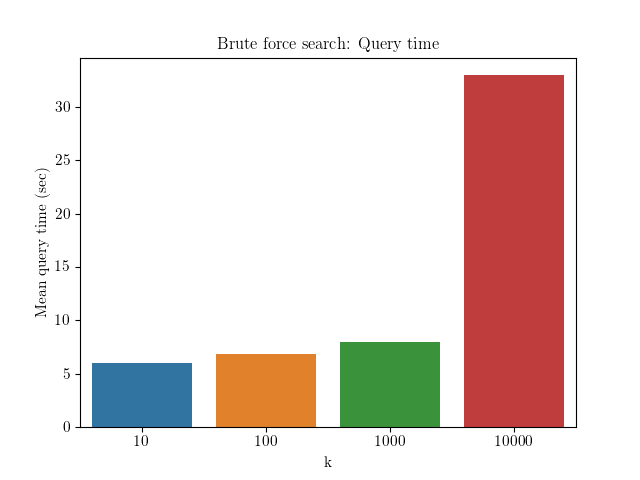
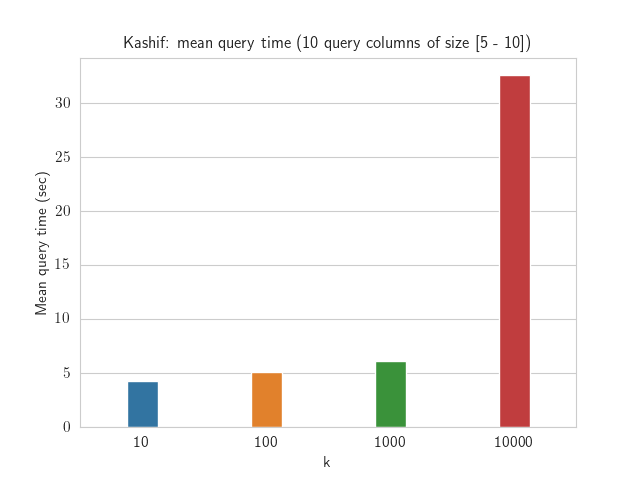
adjust bar plot width and add grid to plot

diff --git a/code/performance/query-time/querytime.py b/code/performance/query-time/querytime.py
@@ -6,7 +6,7 @@ import re
 import matplotlib.pyplot as plt
 import pandas
 import seaborn as sns
-
+import numpy as np
 
 def make_file(_output_file):
     _header = ['algorithm', 'total-files', 'data-gb-size', 'k','num-top', 'TQ:Q','querytime', 'ndistcalc', 'dataaccess']
@@ -27,11 +27,13 @@ def append_evaluation(_algo, _total_files, _dlsize, _k, _x, _tqq, _querytime, _n
 def summarize_results_to_csv(_nqueries, _source_dir, _output_file, _num_top=10):
     make_file(_output_file)
     _k = 0
+    _k_count = 0
     for _subdir, _dirs, _files in os.walk(_source_dir):
         
         if re.search(f'nn', os.path.basename(_subdir)):
             _k = int(re.findall(r"(\d+)nn", _subdir)[0])
             print(f"Current k = {_k}")
+            _k_count += 1
         if re.search(f'_{_nqueries}q_min', os.path.basename(_subdir)):
             print(f"\nCurrent Directory: {_subdir}")
             _currentdir = os.path.basename(_subdir)
@@ -55,9 +57,9 @@ def summarize_results_to_csv(_nqueries, _source_dir, _output_file, _num_top=10):
                    
                     # save evaluation to csv file
                     append_evaluation(_algo, _l, _dlsize, _k, _num_top, _tqq, _querytime, _ndistcalc, _dataaccess, _output_file)
+    return _k_count
 
-
-def plot_results(_csv_file, _output_dir):
+def plot_results(_csv_file, _output_dir, _k_count):
     # set text font
     plt.rc('text', usetex=True)
     plt.rc('font', family='serif')
@@ -66,29 +68,50 @@ def plot_results(_csv_file, _output_dir):
     _df = _df.drop(['TQ:Q'], axis = 1)
     _df = _df.drop(['num-top'], axis = 1)
 
-    _df_lineplot = _df.groupby(
+    _df_new = _df.groupby(
         ['algorithm', 'total-files', 'data-gb-size', 'k']
     ).agg(
         querytime = ('querytime','mean'),
     ).reset_index()
 
-    # LINE PLOT
-    sns.barplot(data=_df_lineplot, x="k", y="querytime")
-    # print(_df_lineplot)
+    # BAR PLOT
+    sns.set_style("whitegrid")
+    ax = sns.barplot(data=_df_new, x="k", y="querytime")
+
+    # Set these based on your column counts
+    columncounts = [25 for i in range(_k_count)]
+
+    # Maximum bar width is 1. Normalise counts to be in the interval 0-1. Need to supply a maximum possible count here as maxwidth
+    def normaliseCounts(widths,maxwidth):
+        widths = np.array(widths)/float(maxwidth)
+        return widths
+
+    widthbars = normaliseCounts(columncounts,100)
+
+    # Loop over the bars, and adjust the width (and position, to keep the bar centred)
+    for bar,newwidth in zip(ax.patches,widthbars):
+        x = bar.get_x()
+        width = bar.get_width()
+        centre = x+width/2.
+
+        bar.set_x(centre-newwidth/2.)
+        bar.set_width(newwidth)
     
     plt.ylabel("Mean query time (sec)", fontsize = 11)
     plt.xlabel("k", fontsize = 11)
     plt.xticks(fontsize = 11)
     plt.yticks(fontsize = 11)
     # plt.legend(loc='upper left')
-    plt.title("Brute force search: Query time")
-    plt.savefig(f"{_output_dir}/bf_querytime.png")
+    plt.title("Kashif: mean query time (10 query columns of size [5 - 10])")
+    plt.savefig(f"{_output_dir}/kashif_querytime.png")
     plt.close()
 
-_source_dir = "/home/jaouhara/Documents/Projects/iqa-demo/code/search-algorithms/bf/results/100k-tables/"
+
+_source_dir = "/home/jaouhara/Documents/Projects/iqa-demo/code/search-algorithms/kashif/results/100k-tables/"
 _output_dir = "/home/jaouhara/Documents/Projects/iqa-demo/code/performance/query-time/img/"
 _csv_file = "./csv/querytime.csv"
 _nqueries = 10
 
-summarize_results_to_csv(_nqueries, _source_dir, _csv_file, _num_top=10)
-plot_results(_csv_file, _output_dir)
+_k_count = summarize_results_to_csv(_nqueries, _source_dir, _csv_file, _num_top=10)
+_df_new = plot_results(_csv_file, _output_dir, _k_count)
+

diff --git a/code/search-algorithms/bf/src/bf.c b/code/search-algorithms/bf/src/bf.c
@@ -110,7 +110,7 @@ int main(int argc, char const *argv[])
     data_gb_size = get_data_gb_size(dataset, total_data_files);
     printf("Total data size in gb = %u\n", data_gb_size);    
 
-    bf_sequential_search(dataset, vector_length, qset_num, min_qset_size, max_qset_size,
+    bf_sequential_search(queries_dir, dataset, vector_length, qset_num, min_qset_size, max_qset_size,
                             top, result_dir, total_data_files, data_gb_size, k);
 
     printf("\n>>>> Congrat! End of experiment."); 
@@ -124,7 +124,7 @@ int main(int argc, char const *argv[])
 }
 
 
-void bf_sequential_search(char * dataset, unsigned int vector_length, unsigned int qset_num,
+void bf_sequential_search(char * queries, char * dataset, unsigned int vector_length, unsigned int qset_num,
     unsigned int min_qset_size, unsigned int max_qset_size, unsigned int num_top, char * result_dir,
     unsigned int total_data_file, unsigned int data_gb_size, unsigned int k)
 {
@@ -135,11 +135,11 @@ void bf_sequential_search(char * dataset, unsigned int vector_length, unsigned i
     // open source dir
     struct dirent *dfile;
     COUNT_PARTIAL_INPUT_TIME_START
-    DIR *dir = opendir(dataset);
+    DIR *dir = opendir(queries);
     COUNT_PARTIAL_INPUT_TIME_END
     if (!dir)
     {
-        printf("Unable to open directory stream %s!", dataset);
+        printf("Unable to open directory stream %s!", queries);
         exit(1);
     }
 
@@ -168,12 +168,13 @@ void bf_sequential_search(char * dataset, unsigned int vector_length, unsigned i
 
             // get fill path of bin file
             char bin_file_path[PATH_MAX + 1] = ""; 
-            strcat(bin_file_path, dataset);strcat(bin_file_path, "/");strcat(bin_file_path, dfile->d_name);
+            strcat(bin_file_path, queries);strcat(bin_file_path, "/");strcat(bin_file_path, dfile->d_name);
 
             // get binary table info 
             int datasize, table_id, nsets, vector_length_in_filename;
             sscanf(dfile->d_name,"data_size%d_t%dc%d_len%d_noznorm.bin",&datasize,&table_id,&nsets,&vector_length_in_filename);
 
+            printf("table id = %u\n", table_id);
             // check if vector length in file name matches vector length passed as argument
             if(vector_length_in_filename != vector_length)
             {
@@ -223,7 +224,7 @@ void bf_sequential_search(char * dataset, unsigned int vector_length, unsigned i
                     }
                     found_query = true;
                     query_set = (struct vector *) realloc(query_set, sizeof(struct vector) * nvec);
-                    printf("Query %u/%u.\n\n", (total_queries-qset_num)+1, total_queries);
+                    printf("Query %u/%u. id:(%u, %u) \n\n", (total_queries-qset_num)+1, total_queries, table_id, set_id);
                     
                     
                     total_checked_vec = 0;
@@ -267,7 +268,7 @@ void bf_sequential_search(char * dataset, unsigned int vector_length, unsigned i
 
                         COUNT_PARTIAL_TIME_END
                         query_time = partial_time - (partial_input_time + partial_output_time);
-                        printf("\nquerytime  = %f - (%f + %f) = %f\n", partial_time, partial_input_time, partial_output_time, query_time);
+                        // printf("\nquerytime  = %f - (%f + %f) = %f\n", partial_time, partial_input_time, partial_output_time, query_time);
                         
                         /* End of Query set */
                         /* Save query results to csv file */

diff --git a/code/search-algorithms/bf/include/utils.h b/code/search-algorithms/bf/include/utils.h
@@ -33,7 +33,7 @@ struct result_sid {
 int get_ndigits(unsigned int n);
 unsigned int get_data_gb_size(char* dl_dir, unsigned int l);
 bool is_binaryfile(const char *filename);
-void bf_sequential_search( char * bin_files_directory, unsigned int vector_length, unsigned int qset_num, 
+void bf_sequential_search(char * queries_dir, char * bin_files_directory, unsigned int vector_length, unsigned int qset_num, 
     unsigned int min_qset_size, unsigned int max_qset_size, unsigned int num_top, char * result_dir,
     unsigned int total_data_files, unsigned int dataset_gb_size, unsigned int k);
 void save_to_query_result_file(char * csv_file, unsigned int qtable_id, unsigned int qset_id, int num_knns, struct query_result * knn_results);
